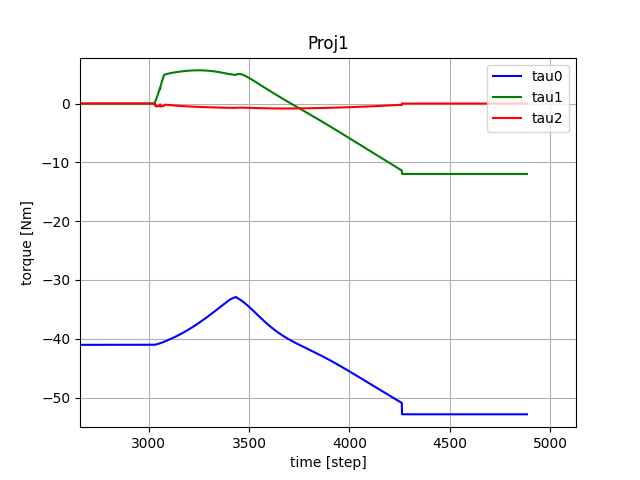
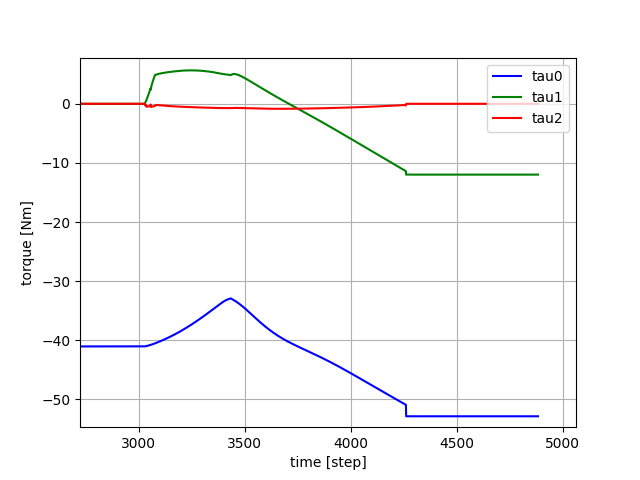
Titles removed from plots

diff --git a/proj2_q.py b/proj2_q.py
@@ -5,7 +5,7 @@ from csv import reader
 # read csv file as a list of lists
 from matplotlib import ticker
 
-with open('proj2.csv', 'r') as read_obj:
+with open('proj2_high.csv', 'r') as read_obj:
     # pass the file object to reader() to get the reader object
     csv_reader = reader(read_obj)
     # Pass reader object to list() to get a list of lists
@@ -63,9 +63,9 @@ ax.plot(times, q2, 'r', label="q2")
 #ax.plot(times, qd1, 'g--', label="qd1")
 #ax.plot(times, qd2, 'r--', label="qd2")
 
-plt.legend(loc="upper left")
+plt.legend(loc="upper right")
 
-ax.set(xlabel='time [step]', ylabel='angle [rad]', title='Proj2')
+ax.set(xlabel='time [step]', ylabel='angle [rad]')
 #ax.set(xlabel='time [step]', ylabel='torque [Nm]', title='Proj2 torque vs. time')
 
 ax.grid()

diff --git a/proj2_e.py b/proj2_e.py
@@ -5,7 +5,7 @@ from csv import reader
 # read csv file as a list of lists
 from matplotlib import ticker
 
-with open('proj2_medium.csv', 'r') as read_obj:
+with open('proj2_low.csv', 'r') as read_obj:
     # pass the file object to reader() to get the reader object
     csv_reader = reader(read_obj)
     # Pass reader object to list() to get a list of lists
@@ -78,7 +78,7 @@ ax.plot(times, e2, 'r', label="err_alpha")
 
 plt.legend(loc="upper right")
 
-ax.set(xlabel='time [step]', ylabel='value [number]', title='Proj2 error medium')
+ax.set(xlabel='time [step]', ylabel='value [number]')
 #ax.set(xlabel='time [step]', ylabel='torque [Nm]', title='Proj2 torque vs. time')
 
 ax.grid()

diff --git a/proj2_x_xd.py b/proj2_x_xd.py
@@ -5,7 +5,7 @@ from csv import reader
 # read csv file as a list of lists
 from matplotlib import ticker
 
-with open('proj2.csv', 'r') as read_obj:
+with open('proj2_high.csv', 'r') as read_obj:
     # pass the file object to reader() to get the reader object
     csv_reader = reader(read_obj)
     # Pass reader object to list() to get a list of lists
@@ -65,7 +65,7 @@ ax.plot(times, xd2, 'r--', label="xd2")
 
 plt.legend(loc="upper right")
 
-ax.set(xlabel='time [step]', ylabel='value [number]', title='Proj2')
+ax.set(xlabel='time [step]', ylabel='value [number]')
 #ax.set(xlabel='time [step]', ylabel='torque [Nm]', title='Proj2 torque vs. time')
 
 ax.grid()

diff --git a/proj2_tau.py b/proj2_tau.py
@@ -5,7 +5,7 @@ from csv import reader
 # read csv file as a list of lists
 from matplotlib import ticker
 
-with open('proj2.csv', 'r') as read_obj:
+with open('proj2_high.csv', 'r') as read_obj:
     # pass the file object to reader() to get the reader object
     csv_reader = reader(read_obj)
     # Pass reader object to list() to get a list of lists
@@ -66,7 +66,7 @@ ax.plot(times, tau2, 'r', label="tau2")
 plt.legend(loc="upper right")
 
 #ax.set(xlabel='time [step]', ylabel='angle [rad]', title='Proj2')
-ax.set(xlabel='time [step]', ylabel='torque [Nm]', title='Proj2')
+ax.set(xlabel='time [step]', ylabel='torque [Nm]')
 
 ax.grid()
 

diff --git a/proj1_q_qd.py b/proj1_q_qd.py
@@ -65,7 +65,7 @@ ax.plot(times, qd2, 'r--', label="qd2")
 
 plt.legend(loc="upper left")
 
-ax.set(xlabel='time [step]', ylabel='angle [rad]', title='Proj1')
+ax.set(xlabel='time [step]', ylabel='angle [rad]')
 #ax.set(xlabel='time [step]', ylabel='torque [Nm]', title='Proj2 torque vs. time')
 
 ax.grid()

diff --git a/proj1_tau.py b/proj1_tau.py
@@ -66,7 +66,7 @@ ax.plot(times, tau2, 'r', label="tau2")
 plt.legend(loc="upper right")
 
 #ax.set(xlabel='time [step]', ylabel='angle [rad]', title='Proj1')
-ax.set(xlabel='time [step]', ylabel='torque [Nm]', title='Proj1')
+ax.set(xlabel='time [step]', ylabel='torque [Nm]')
 
 ax.grid()
 
